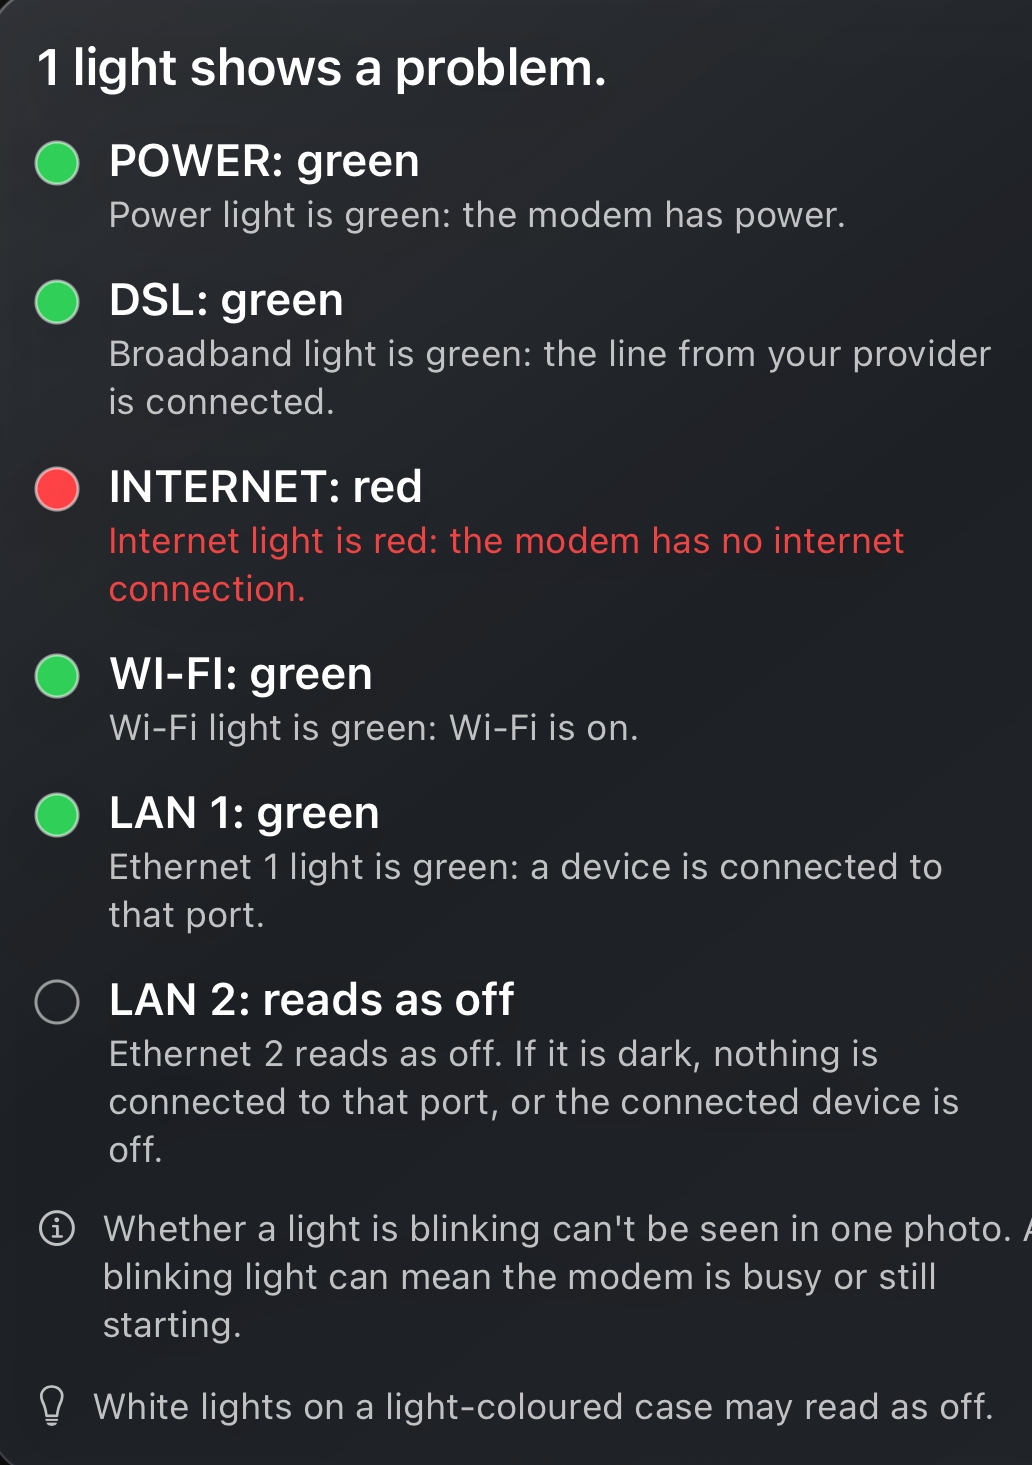
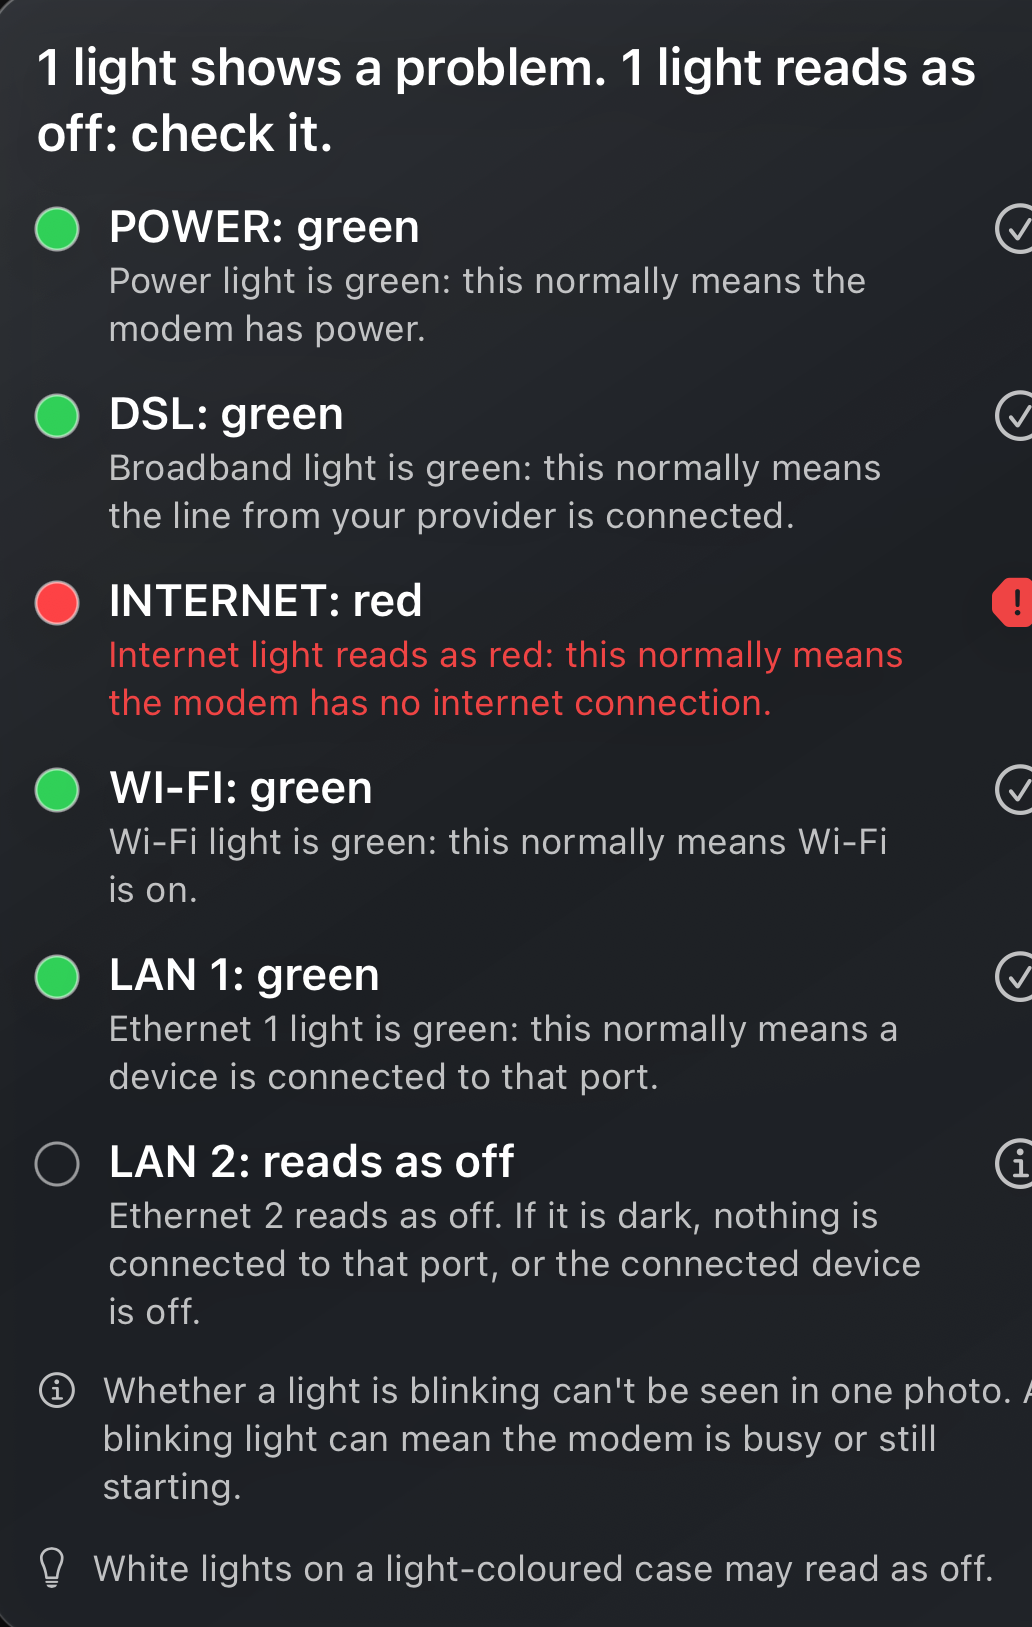
Evidence for #558 review round at 5715f761: probe (56/64, 0 flips), app-text-only screenshots
Claude-Session: https://claude.ai/code/session_01Mpy9poPeKXqfeeiJn3hJqT

diff --git a/probe-558/Sources/Probe/Probe.swift b/probe-558/Sources/Probe/Probe.swift
@@ -209,16 +209,7 @@ func norm(_ s: String) -> String { s.uppercased().filter { $0.isLetter || $0.isN
       let report = ModemPanelReport(answer: answer)
       print("  headline: \(report.headline)")
       for point in report.keyPoints { print("  key point: \(point)") }
-      if let request = report.insightRequest {
-        let wording = await InsightSummarizer.outcome(for: request, service: InsightService.shared, timeout: .seconds(20))
-        switch wording {
-        case let .answer(a): print("  wording (shown): \(a.text)")
-        case .refused: print("  wording: REFUSED by the checks (app lines only)")
-        case .tryLater: print("  wording: none (timeout/unavailable)")
-        }
-      } else if report.isPanel {
-        print("  wording: not asked (a light reads as off: app lines only)")
-      }
+      for notice in report.notices { print("  notice: \(notice)") }
     }
     print("\n== non-panel images")
     var rejects = 0
